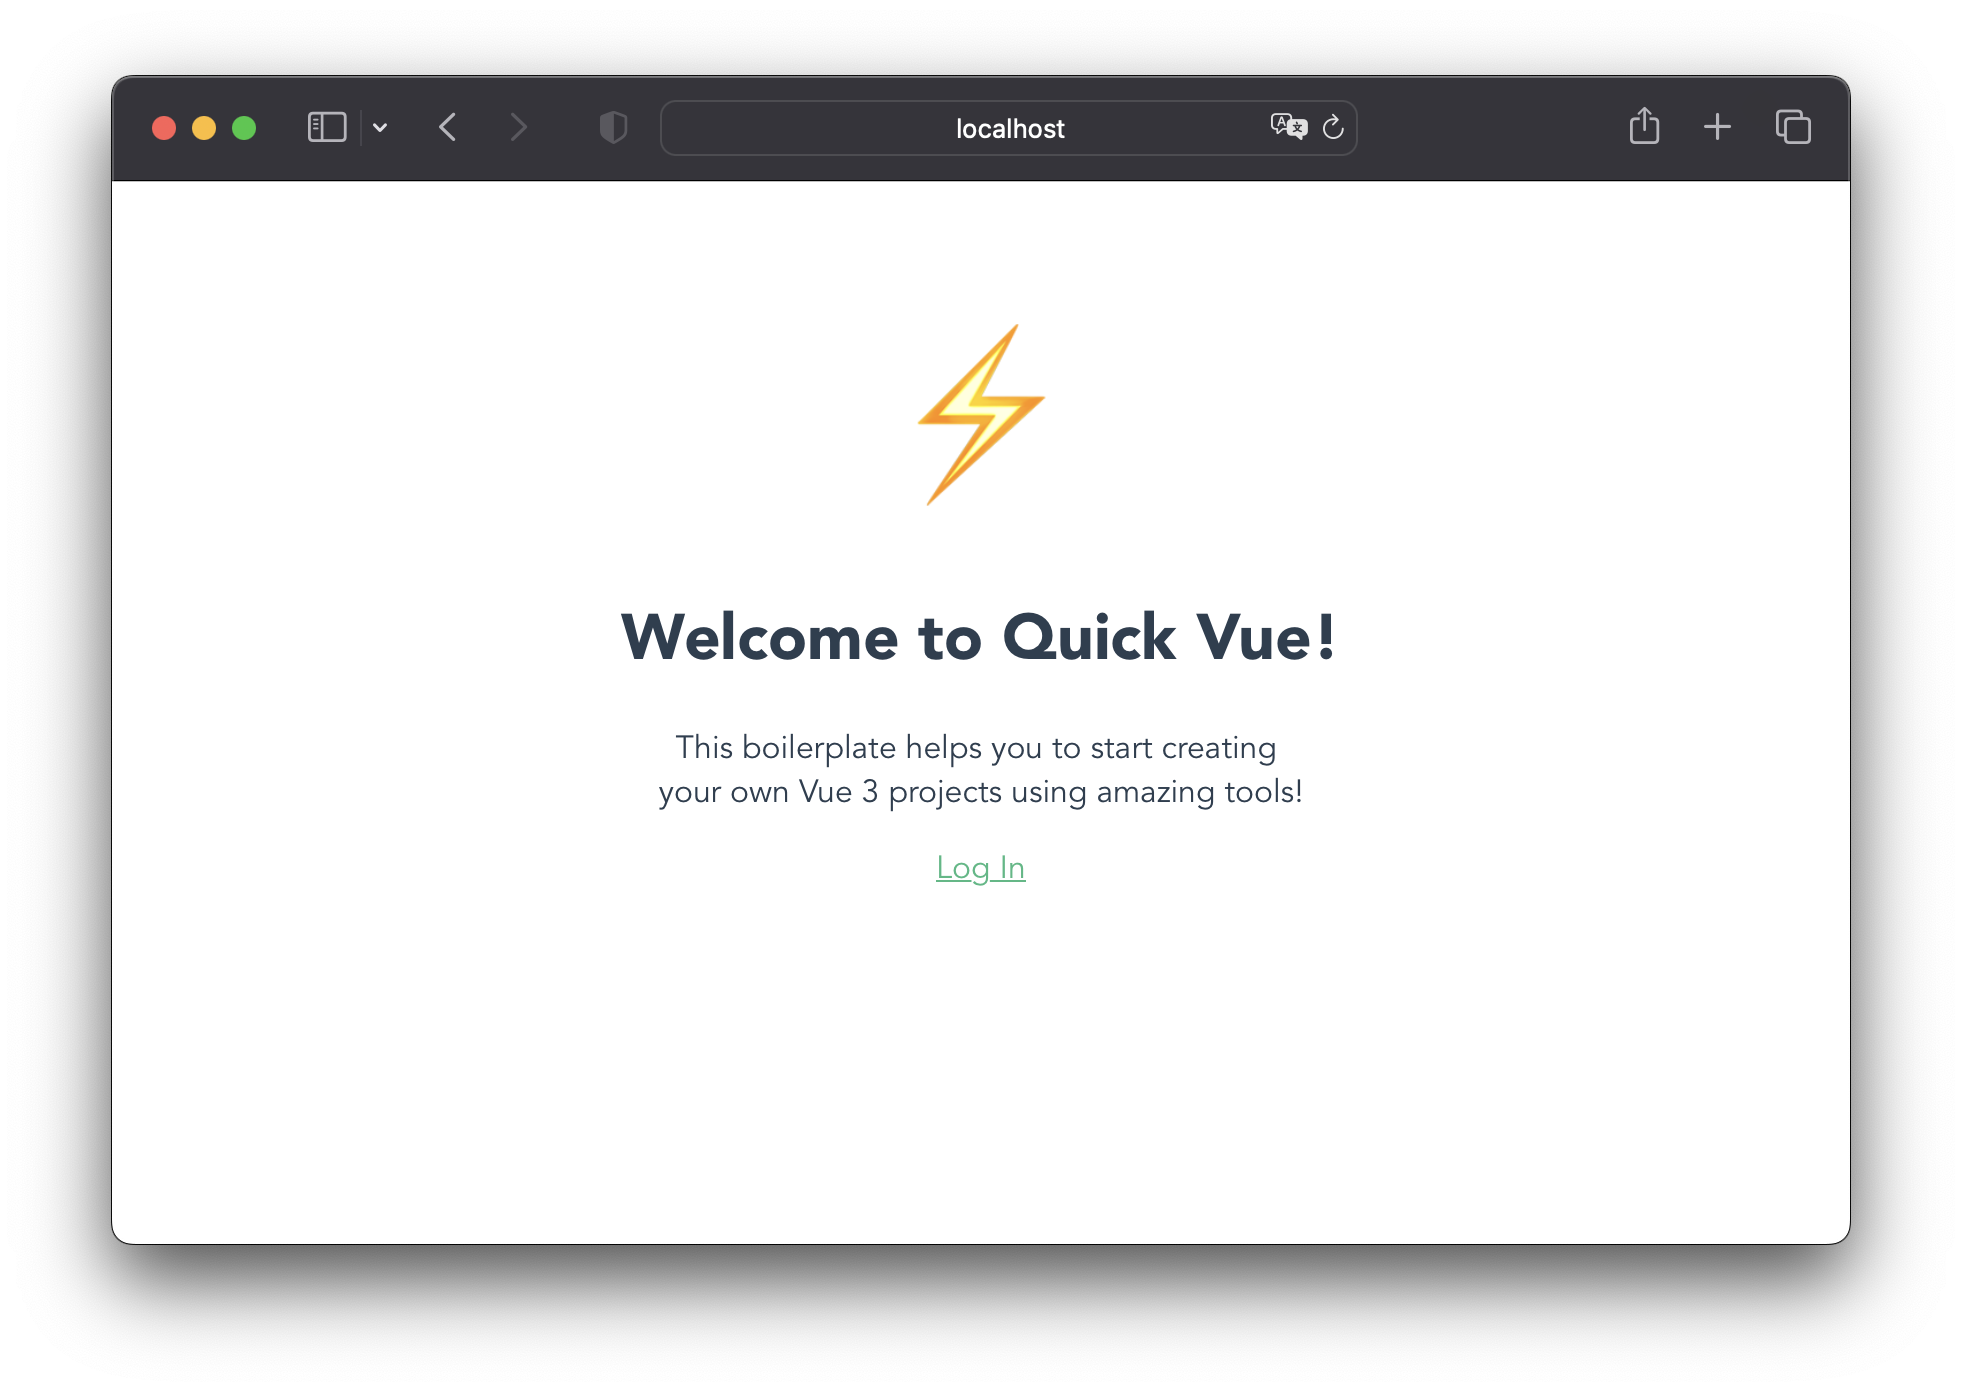
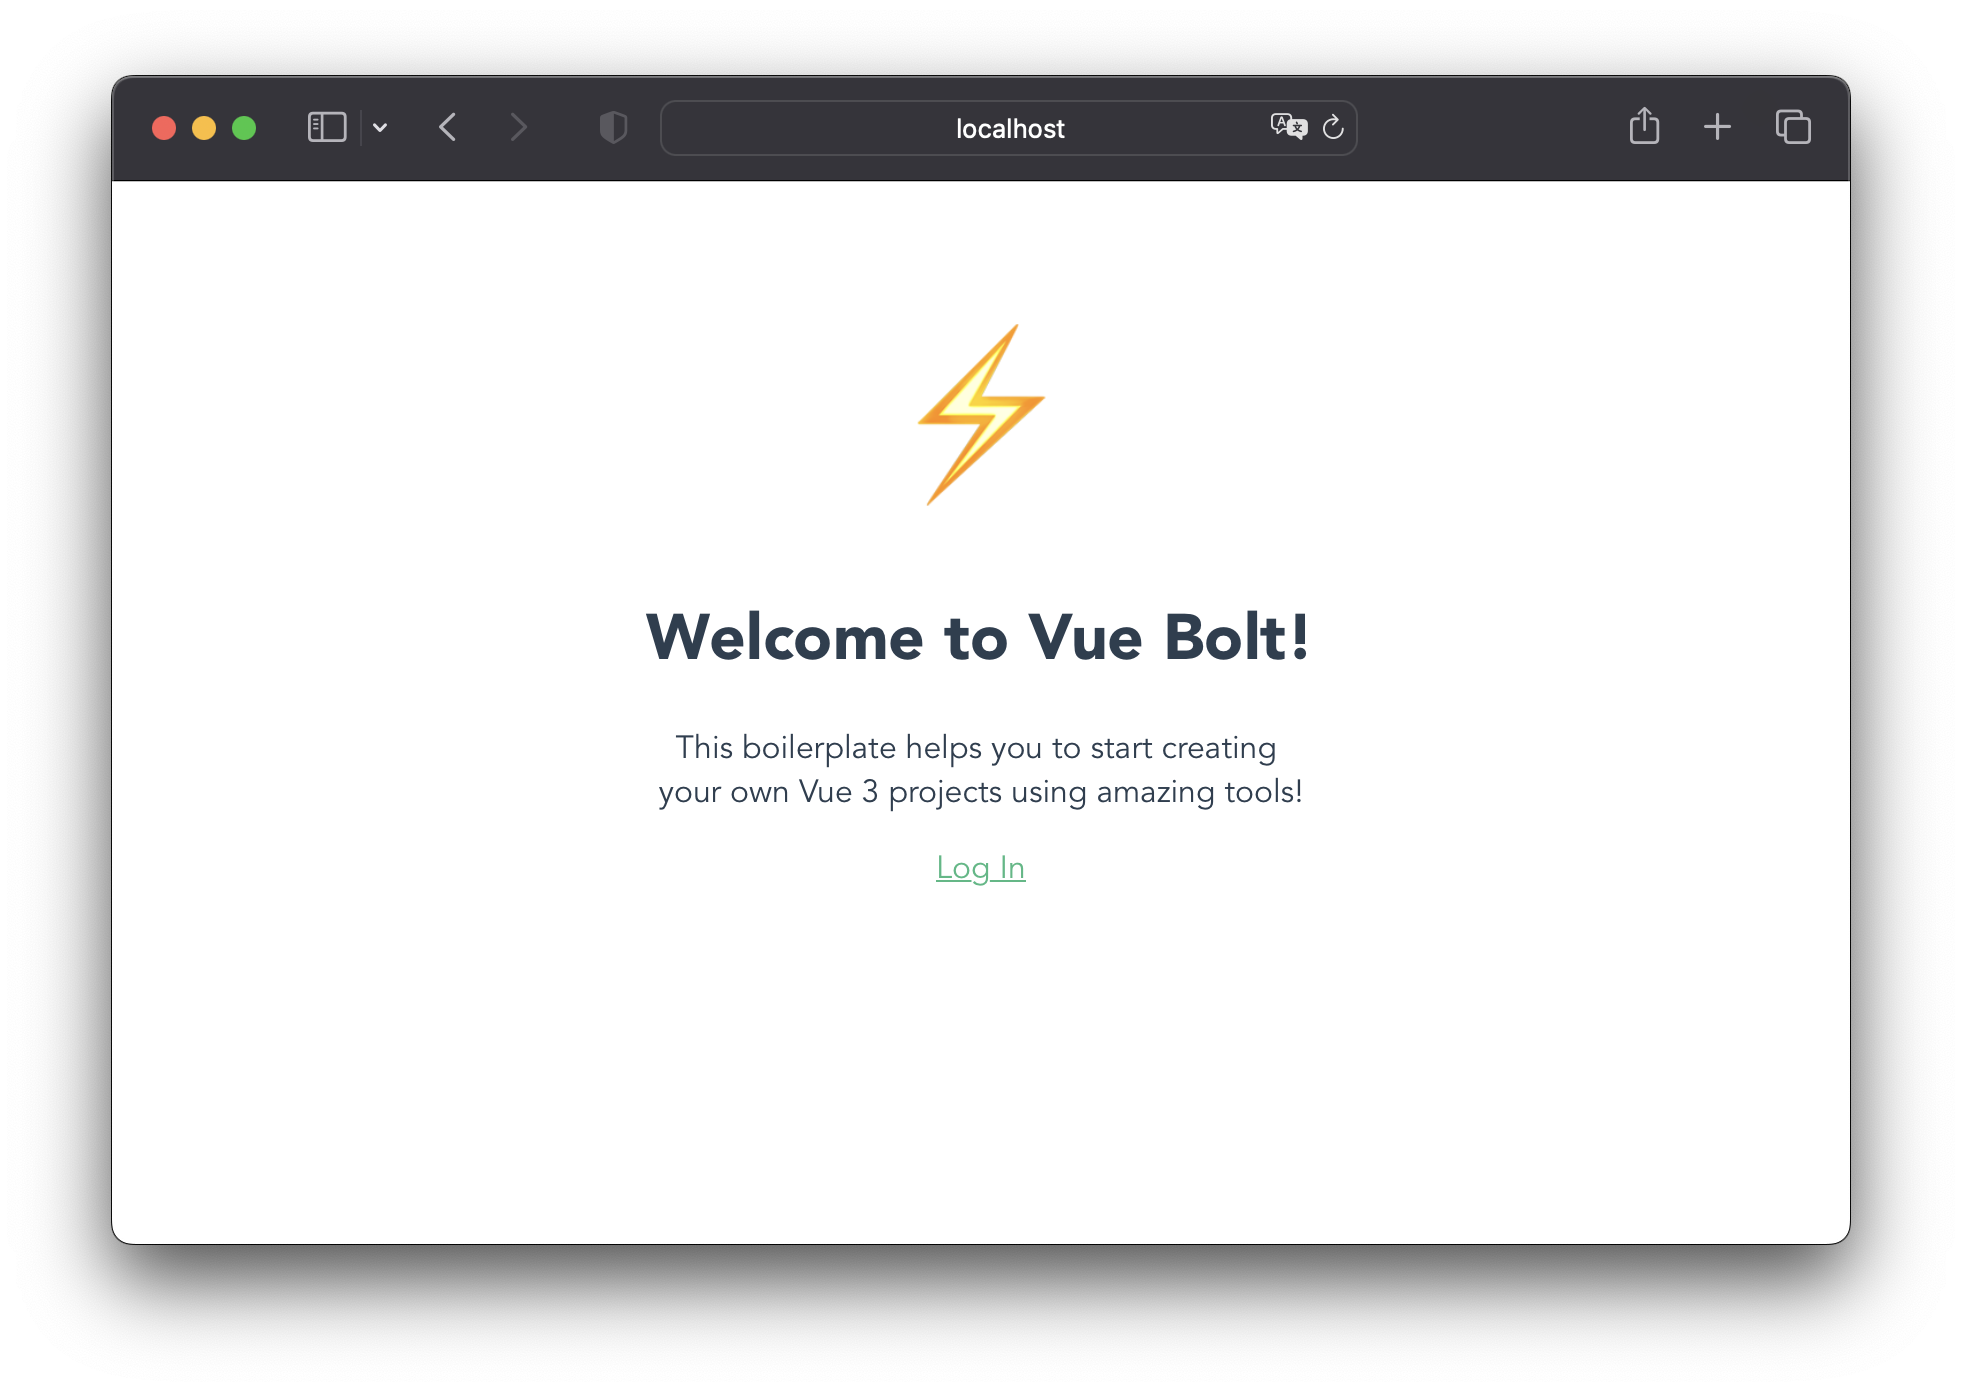
Re-brand product
Welcome Vue Bolt!

Changed region(s): [[0.3109, 0.4325, 0.684, 0.4943]]

diff --git a/src/components/MainSection.vue b/src/components/MainSection.vue
@@ -3,7 +3,7 @@
     <div class="hello">
       <span>⚡</span>
       <h1>
-        {{ !userIsLoggedIn ? "Welcome to Quick Vue!" : "You are now logged in" }}
+        {{ !userIsLoggedIn ? "Welcome to Vue Bolt!" : "You are now logged in" }}
       </h1>
       <p v-if="!userIsLoggedIn">
         This boilerplate helps you to start creating

diff --git a/index.html b/index.html
@@ -4,7 +4,7 @@
     <meta charset="UTF-8" />
     <link rel="icon" href="/favicon.ico" />
     <meta name="viewport" content="width=device-width, initial-scale=1.0" />
-    <title>Quick Vue</title>
+    <title>Vue Bolt</title>
   </head>
 
   <body>

diff --git a/README.md b/README.md
@@ -4,7 +4,7 @@
     ⚡
     <br />
     <br />
-    Quick Vue
+    Vue Bolt
     <br />
     <br />
   </h1>
@@ -14,9 +14,9 @@
     <br />
     <br /
 
-[![Version](https://img.shields.io/github/v/tag/morellexf26/quick-vue?label=%20&style=for-the-badge)](https://github.com/morellexf26/quick-vue/releases)
-[![License](https://img.shields.io/badge/-MIT-f56565.svg?longCache=true&style=for-the-badge)](https://github.com/morellexf26/quick-vue/blob/main/LICENSE)
-[![Package Monthly Downloads](https://img.shields.io/npm/dm/quick-vue?label=%20&style=for-the-badge)](https://www.npmjs.com/package/quick-vue)
+[![Version](https://img.shields.io/github/v/tag/morellexf26/vue-bolt?label=%20&style=for-the-badge)](https://github.com/morellexf26/vue-bolt/releases)
+[![License](https://img.shields.io/badge/-MIT-f56565.svg?longCache=true&style=for-the-badge)](https://github.com/morellexf26/vue-bolt/blob/main/LICENSE)
+[![Package Monthly Downloads](https://img.shields.io/npm/dm/vue-bolt?label=%20&style=for-the-badge)](https://www.npmjs.com/package/vue-bolt)
 [![Docs](https://img.shields.io/badge/-Docs-blue.svg?style=for-the-badge)](https://vuejs.org)
 
   </sup>
@@ -66,7 +66,7 @@ Tuto is the short of Tutorial and the best/easier way to start creating a SPA us
 ## 🏛 Folder Structure
 
 ```
-quick-vue
+vue-bolt
 ├─ .gitignore
 ├─ LICENSE
 ├─ README.md
